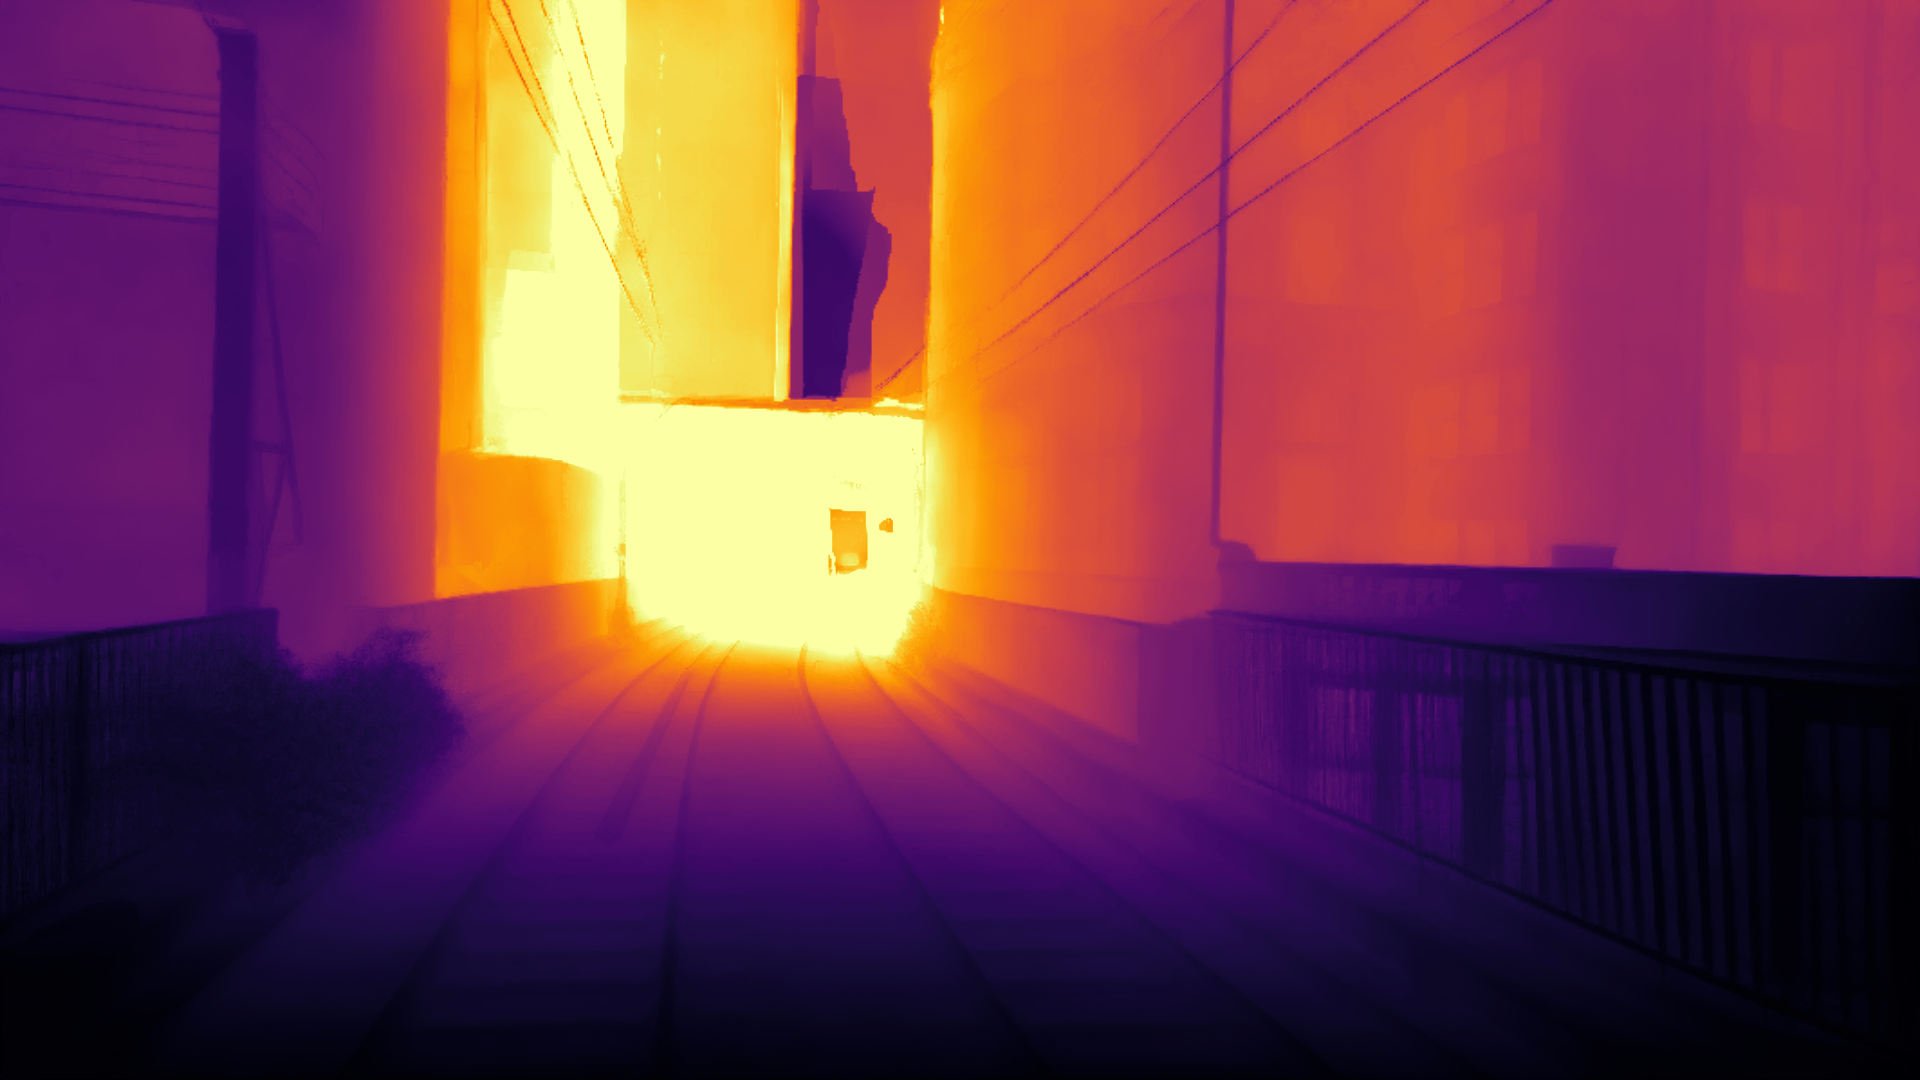
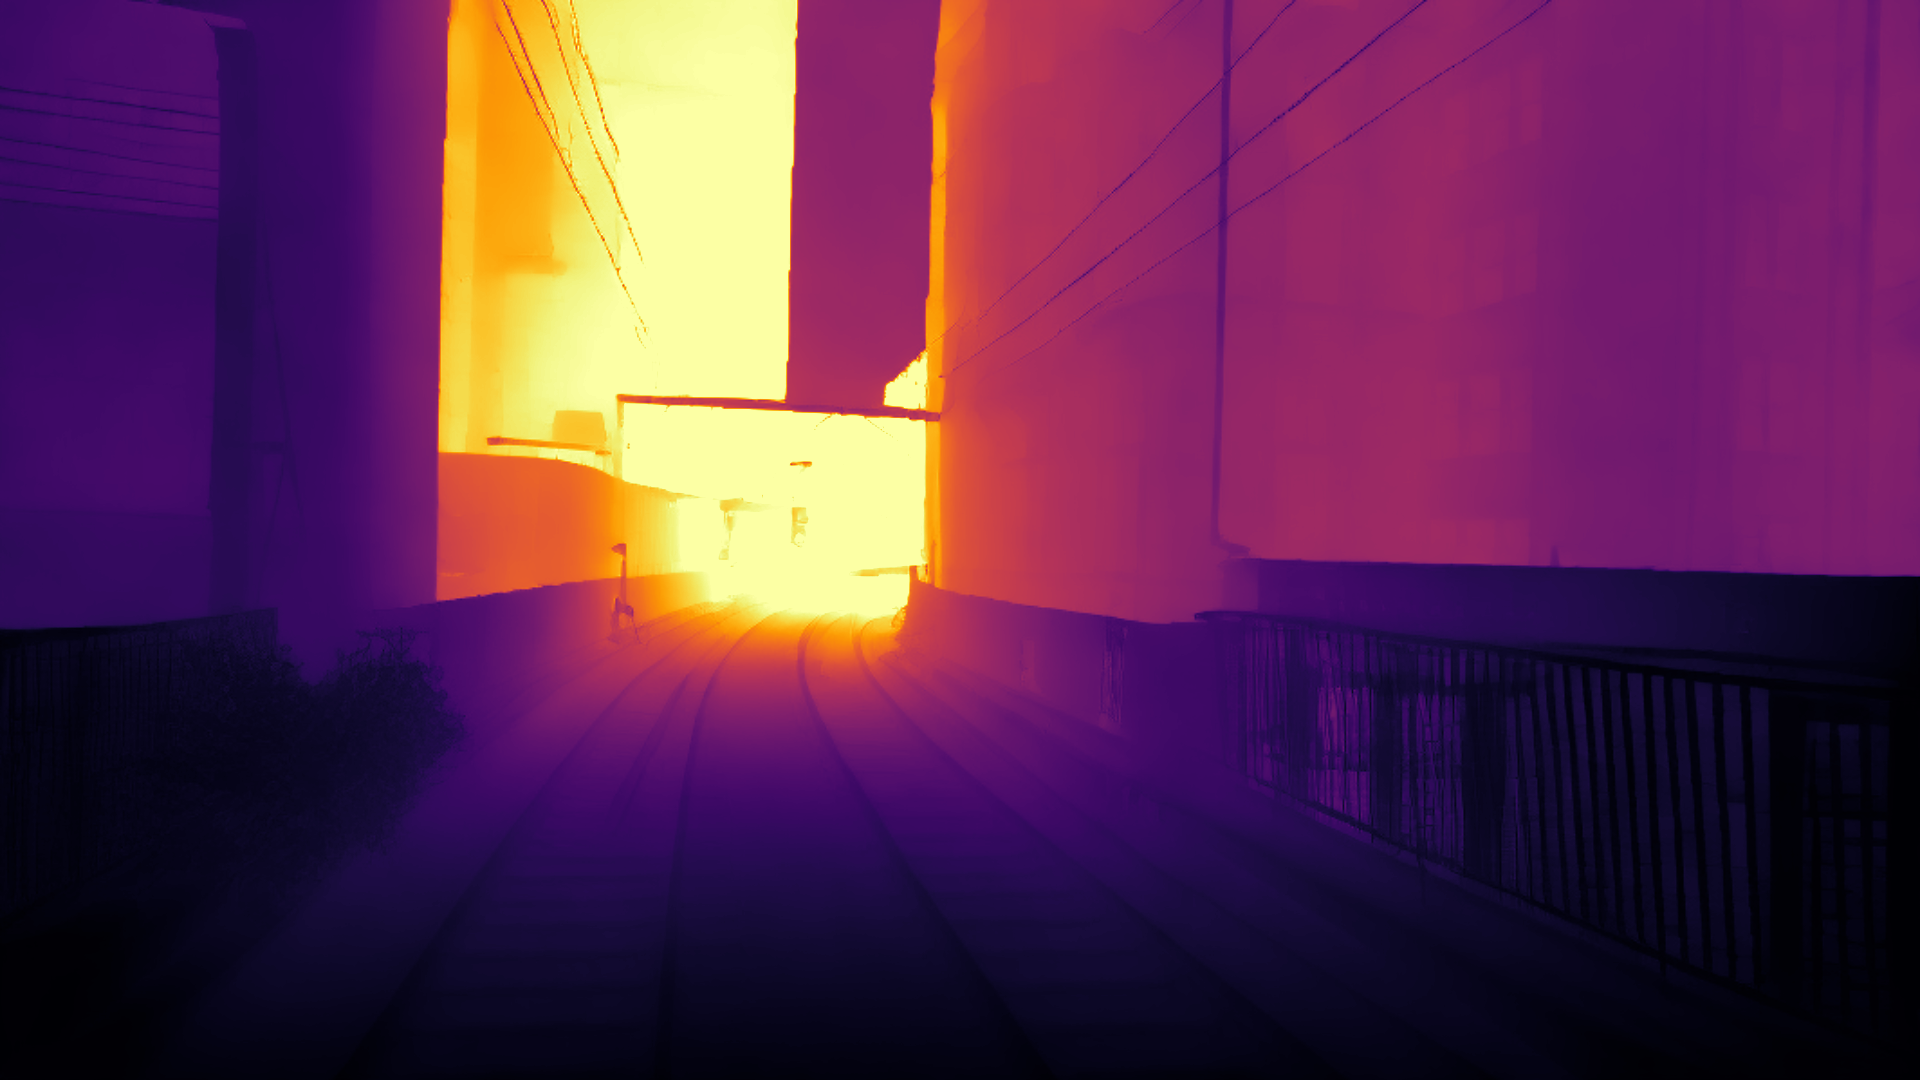
save

diff --git a/FlaskServer/Marigold_inference.py b/FlaskServer/Marigold_inference.py
@@ -12,7 +12,7 @@ from Marigold.marigold.marigold_pipeline import MarigoldPipeline
 
 CHECKPOINT_PATH = "./Marigold/checkpoint/marigold-lcm-v1-0"
 DENOISING_STEPS = 4 # (1-4 for LCM)
-ENSEMBLE_SIZE = 10   # (Ensemble size) 
+ENSEMBLE_SIZE = 1   # (Ensemble size) 
 RESAMPLE_METHOD = 'bilinear'
 SEED = 1
 BATCH_SIZE = 0

diff --git a/FlaskServer/MiDaS_inference.py b/FlaskServer/MiDaS_inference.py
@@ -10,7 +10,7 @@ logger = logging.getLogger(__name__)
 
 device = torch.device("cuda" if torch.cuda.is_available() else "cpu")
 
-MODEL_PATH = ""  # You should specify this
+MODEL_PATH = "./MiDaS/weights/dpt_beit_large_512.pt"
 MODEL_TYPE = "dpt_beit_large_512"
 OPTIMIZE = False
 
